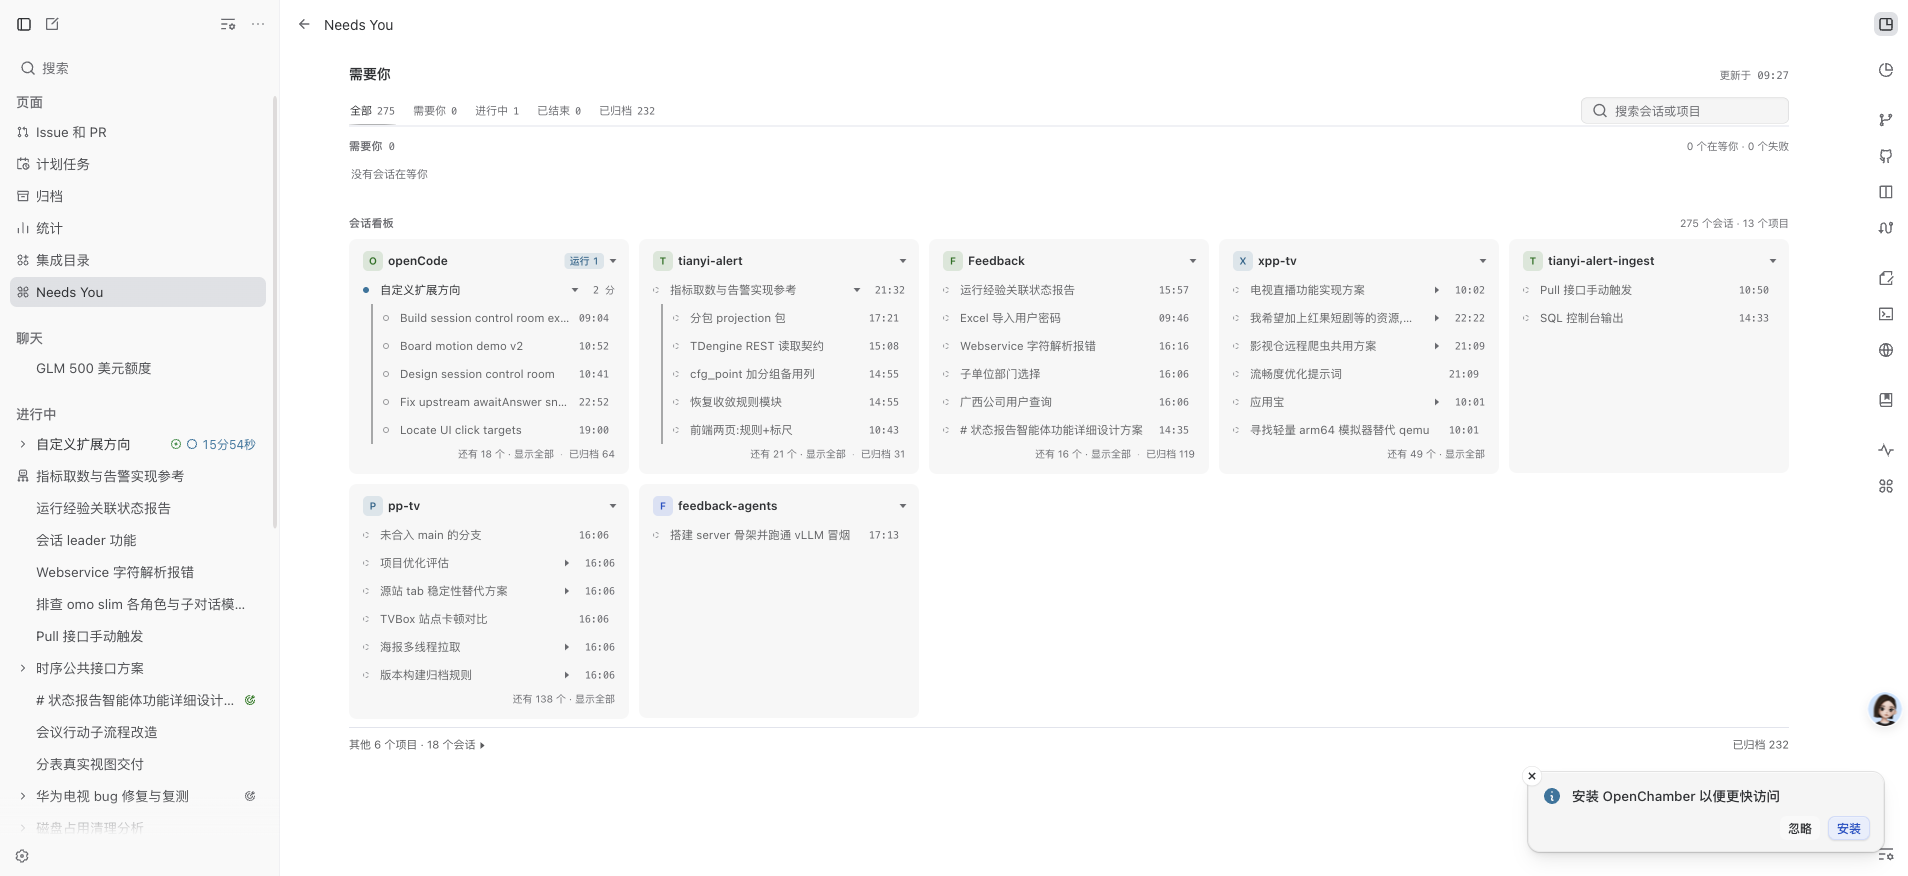
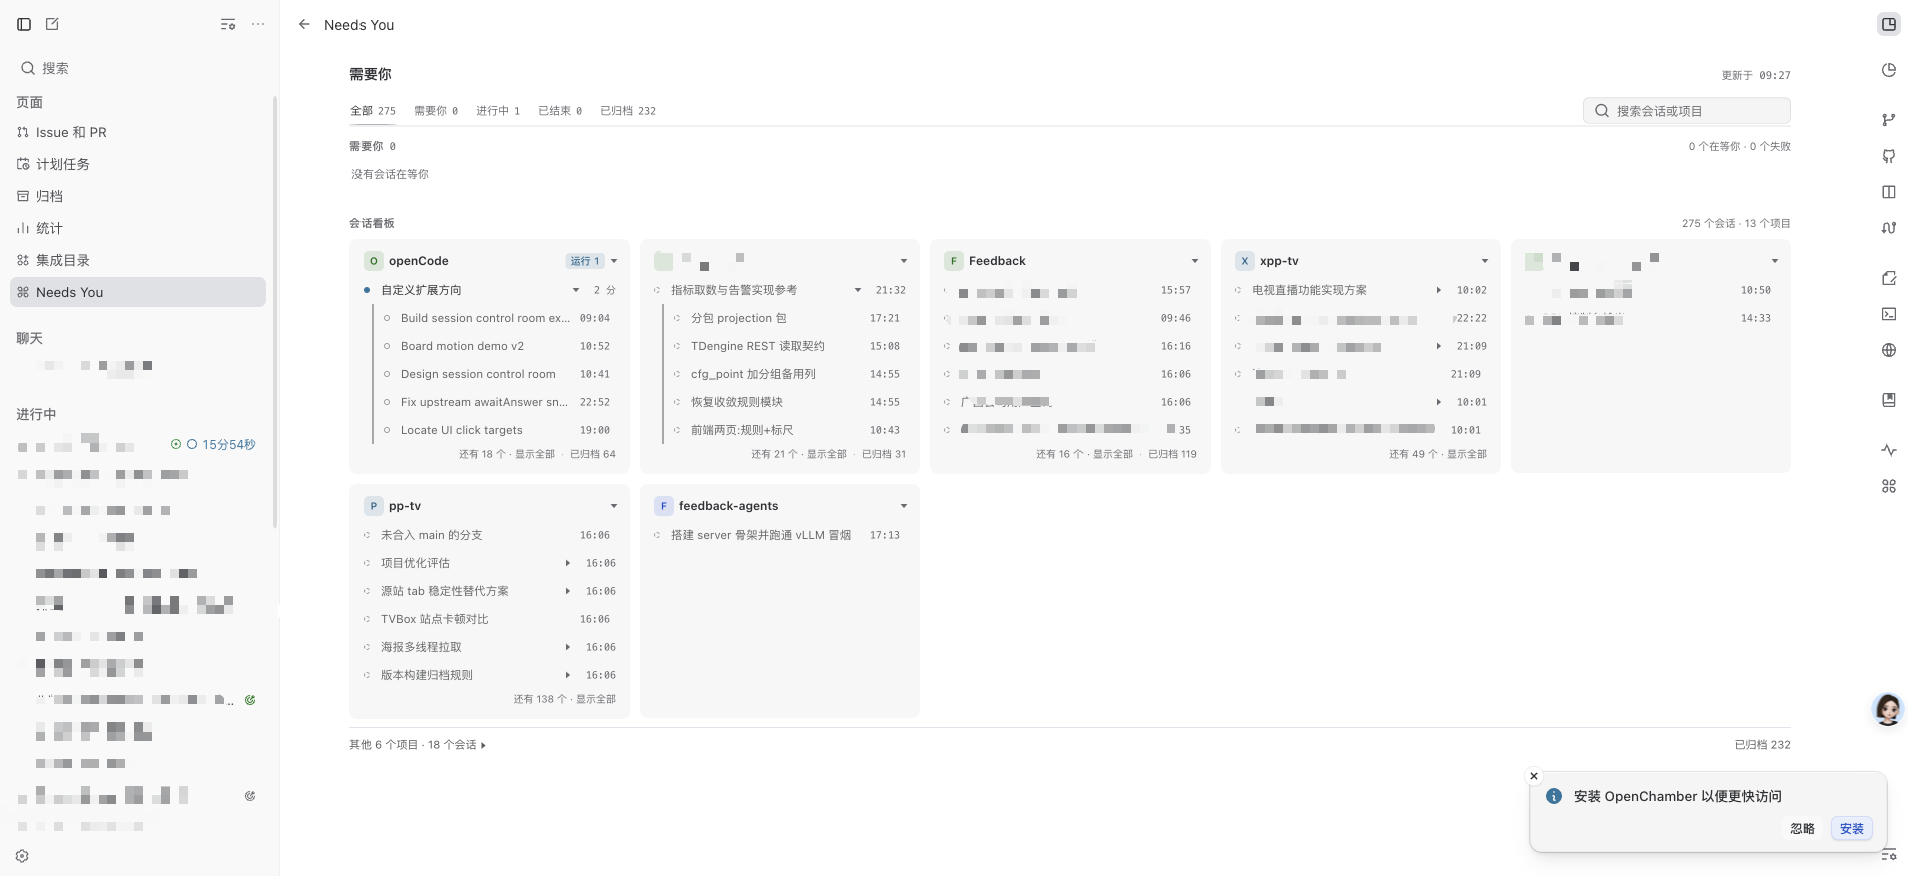
docs(readme): mask screenshots, drop status strip image

diff --git a/README.en.md b/README.en.md
@@ -10,7 +10,6 @@ The Needs You only reads the sessions OpenChamber is already running — no seco
 
 ![Rail panel: the queue, most urgent first](docs/screenshots/panel.png)
 ![Full page: the per-project board](docs/screenshots/page.png)
-![Work Status strip](docs/screenshots/status.png)
 
 ## What it does
 

diff --git a/README.md b/README.md
@@ -10,7 +10,6 @@
 
 ![侧栏面板：按紧急度排的队列](docs/screenshots/panel.png)
 ![全屏看板：按项目铺开](docs/screenshots/page.png)
-![Work Status 条](docs/screenshots/status.png)
 
 ## 它解决什么
 
